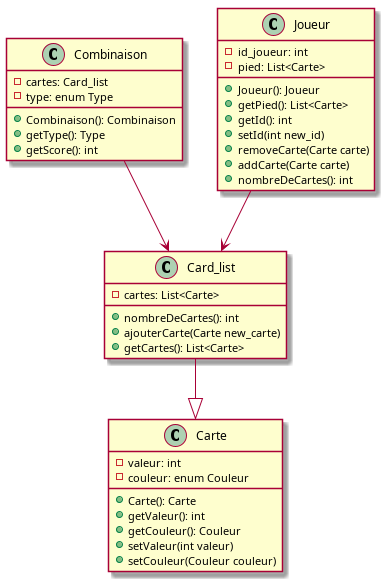
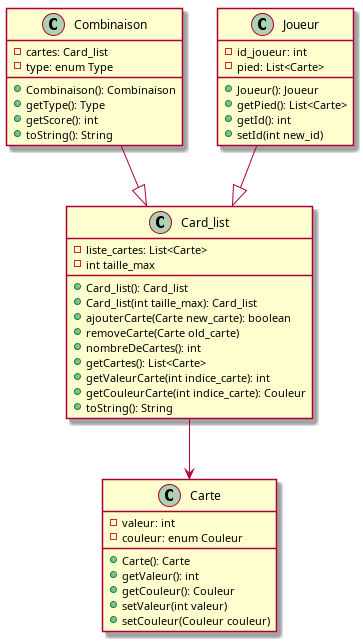
Makefile amélioré entre autres légères améliorations

diff --git a/src/com/schottenTotten/model/Combinaison.java b/src/com/schottenTotten/model/Combinaison.java
@@ -10,24 +10,36 @@ public class Combinaison extends Card_list{
     private Type type;
 
     public Combinaison() {
-        this.cartes = new Card_list();
+        this.cartes = new Card_list(3);
         this.type = Type.SOMME;
     }
 
 
-    public int ajouterCarte(Carte carte){
-        int taille_max = 3;
-        if(super.ajouterCarte(carte, taille_max) == 1){
-            calculate_type();
-            return 1;
+    @Override
+    public boolean ajouterCarte(Carte carte){
+        if(super.ajouterCarte(carte) == true){
+            this.type = calculate_type();
+            return true;
         }
-        return -1;
+        return false;
     }
 
 
     // Renvoie le type de combinaison ()
     public Type getType(){
         return this.type;
+    }
+
+
+    public int getScore(){
+
+        int somme = 0;
+
+        for(int i = 0; i < nombreDeCartes(); i++){
+            somme = somme + cartes.getValeurCarte(i);
+        }
+
+        return somme;
     }
 
 
@@ -38,7 +50,7 @@ public class Combinaison extends Card_list{
     // Fonctions pour checker le type de combinaision
     private boolean check_suite(){
 
-        if (cartes.size() != 3) {
+        if (cartes.nombreDeCartes() != 3) {
             return false; // La combinaison doit contenir exactement 3 cartes pour former une suite
         }
 
@@ -50,12 +62,14 @@ public class Combinaison extends Card_list{
         int[] valeurs = {valeur1, valeur2, valeur3};
         Arrays.sort(valeurs);
 
+        System.out.print(valeurs);
+
         // Vérifie si les valeurs sont consécutives
         return (valeurs[1] == valeurs[0] + 1) && (valeurs[2] == valeurs[1] + 1);
     }
 
     private boolean check_couleur(){
-        if (cartes.size() != 3) {
+        if (cartes.nombreDeCartes() != 3) {
             return false; // La combinaison doit contenir exactement 3 cartes pour former une suite
         }
 
@@ -69,7 +83,7 @@ public class Combinaison extends Card_list{
 
     private boolean check_brelan(){
 
-        if (cartes.size() != 3) {
+        if (cartes.nombreDeCartes() != 3) {
             return false; // La combinaison doit contenir exactement 3 cartes pour former une suite
         }
 
@@ -87,6 +101,7 @@ public class Combinaison extends Card_list{
 
     // Renvoie le type de combinaision de la combianiaison actuelle
     private Type calculate_type(){
+        System.out.print(nombreDeCartes());
         if(nombreDeCartes() < 3){
             return Type.SOMME;
         }

diff --git a/src/com/schottenTotten/model/Card_list.java b/src/com/schottenTotten/model/Card_list.java
@@ -6,43 +6,41 @@ import java.util.List;
 import com.schottenTotten.model.Carte.Couleur;
 
 public class Card_list {
+
     private final List<Carte> liste_cartes;
+    int taille_max;
 
     public Card_list(){
         this.liste_cartes = new ArrayList<>();
+        this.taille_max = 1000;
     }
 
-    public int ajouterCarte(Carte carte, int taille_max) {
+    public Card_list(int taille_max){
+        this.liste_cartes = new ArrayList<>();
+        this.taille_max = taille_max;
+    }
+
+    public boolean ajouterCarte(Carte carte) {
+
         if (liste_cartes.size() >= taille_max) {
             System.out.println("Cette liste de cartes ne peut contenir que " + taille_max + " cartes au maximum.");
-            return -1;
+            return false;
         }
         liste_cartes.add(carte);
-        return 1;
-        
+        return true;
     }
 
-    public int size(){
+
+    public void removeCarte(Carte carte){
+        liste_cartes.remove(carte);
+    }
+
+    public int nombreDeCartes(){
         return liste_cartes.size();
     }
 
     public List<Carte> getCartes() {
         return new ArrayList<>(liste_cartes); // Retourne une copie pour protéger la liste originale
-    }
-
-    public int nombreDeCartes() {
-        return liste_cartes.size();
-    }
-
-    public int getScore(){
-
-        int somme = 0;
-
-        for(int i = 0; i < nombreDeCartes(); i++){
-            somme = somme + liste_cartes.get(i).getValeur();
-        }
-
-        return somme;
     }
 
         // Fonction qui renvoie la liste des valeurs des cartes
@@ -58,6 +56,6 @@ public class Card_list {
 
     @Override
     public String toString() {
-        return "cartes=" + liste_cartes;
+        return "" + liste_cartes;
     }
 }

diff --git a/src/com/schottenTotten/tests/Main_test.java b/src/com/schottenTotten/tests/Main_test.java
@@ -7,8 +7,12 @@ public class Main_test {
 
     public static void main(String[] args){
         Carte carte_1 = new Carte(Carte.Couleur.ROUGE, 1);
+        Carte carte_2 = new Carte(Carte.Couleur.ROUGE, 1);
+        Carte carte_3 = new Carte(Carte.Couleur.ROUGE, 1);
         Combinaison combinaison = new Combinaison();
         combinaison.ajouterCarte(carte_1);
+        combinaison.ajouterCarte(carte_2);
+        combinaison.ajouterCarte(carte_3);
 
         System.out.println(combinaison.toString());
 
